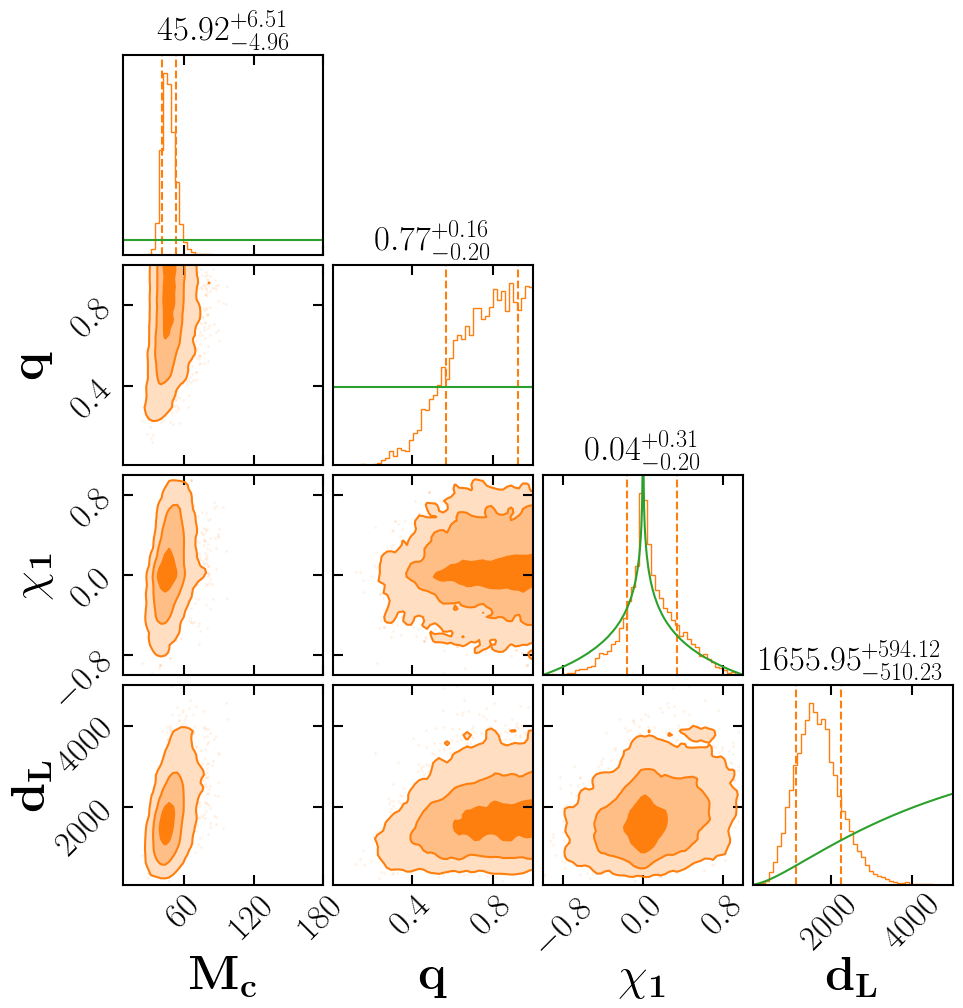
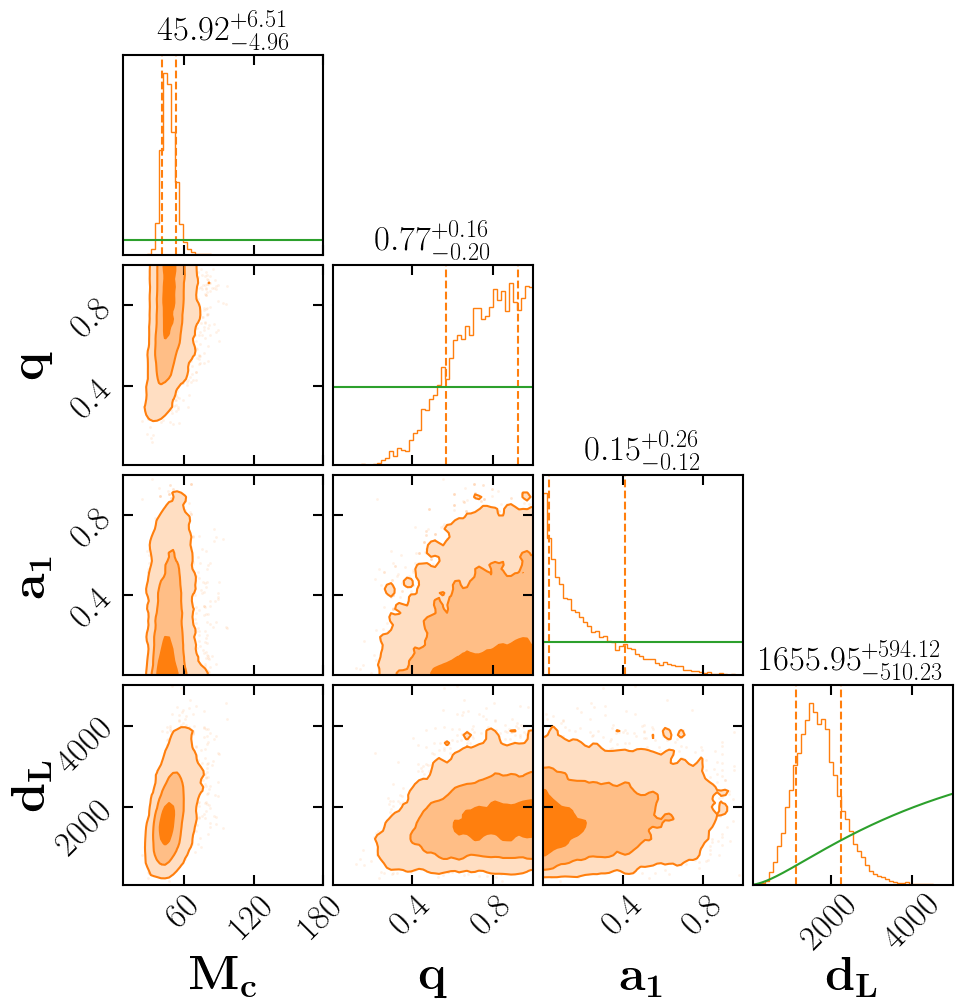
update corner

diff --git a/scripts/plot_corners.py b/scripts/plot_corners.py
@@ -14,6 +14,7 @@ set_matplotlib_style_settings()
 PARAMS = dict(
     chi_eff=dict(latex_label=r"$\mathbf{\chi_{eff}}$", range=(-0.8, 0.8)),
     chi_p=dict(latex_label=r"$\mathbf{\chi_{p}}$", range=(0, 1)),
+    a_1=dict(latex_label=r"$\mathbf{a_1}$", range=(0, 1)),
     chi_1=dict(latex_label=r"$\mathbf{\chi_1}$", range=(-1, 1)),
     cos_tilt_1=dict(latex_label=r"$\mathbf{\cos(t1)}$", range=(-1, 1)),
     cos_tilt_2=dict(latex_label=r"$\mathbf{\cos(t2)}$", range=(-1, 1)),
@@ -61,7 +62,7 @@ def main():
     )
     plot_result_corner(
         r,
-        parameters=["chirp_mass", "mass_ratio", "chi_1", "luminosity_distance"],
+        parameters=["chirp_mass", "mass_ratio", "a_1", "luminosity_distance"],
         fname="images/170222_prior_posterior.png",
         prior=prior
 
